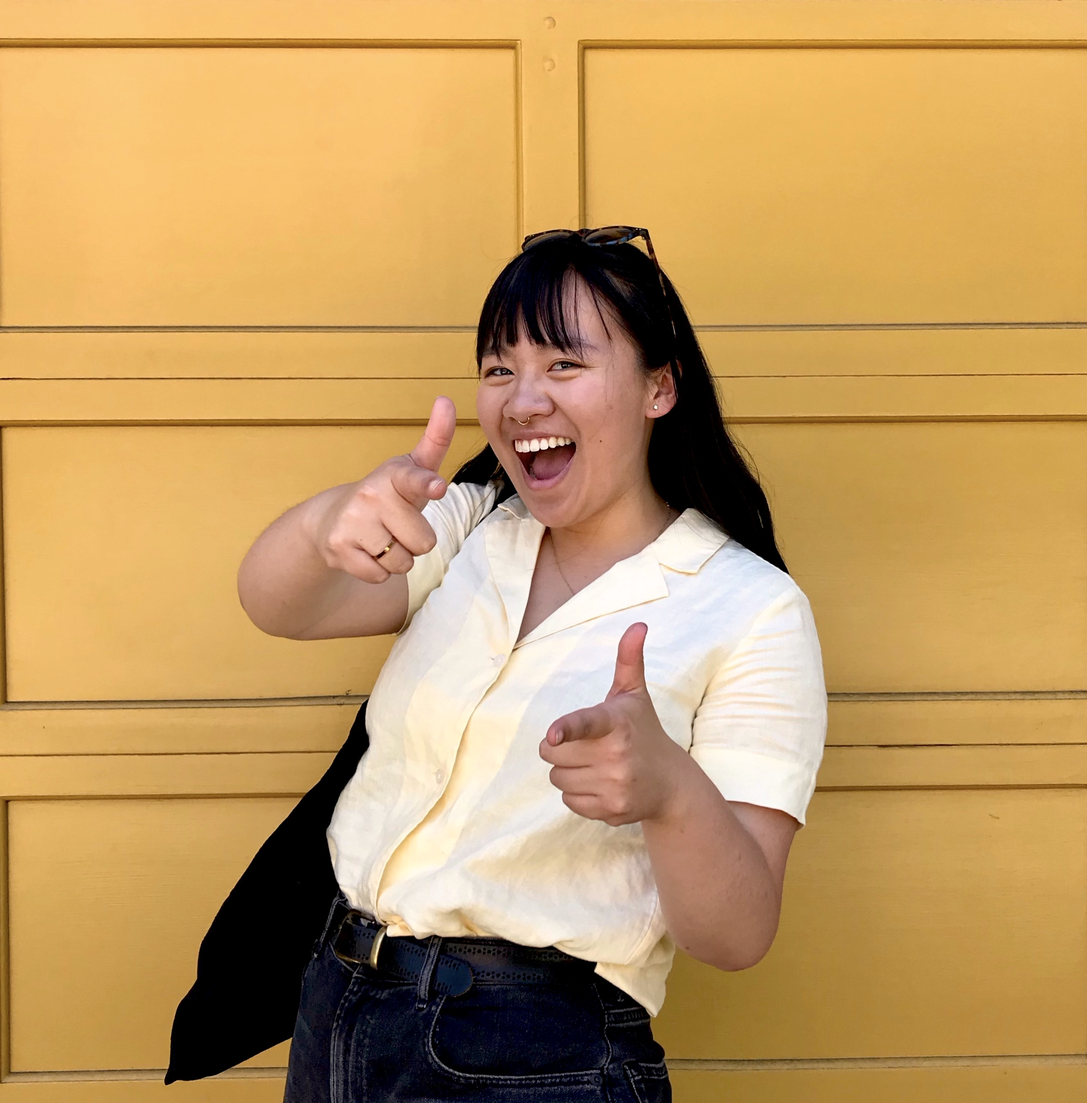
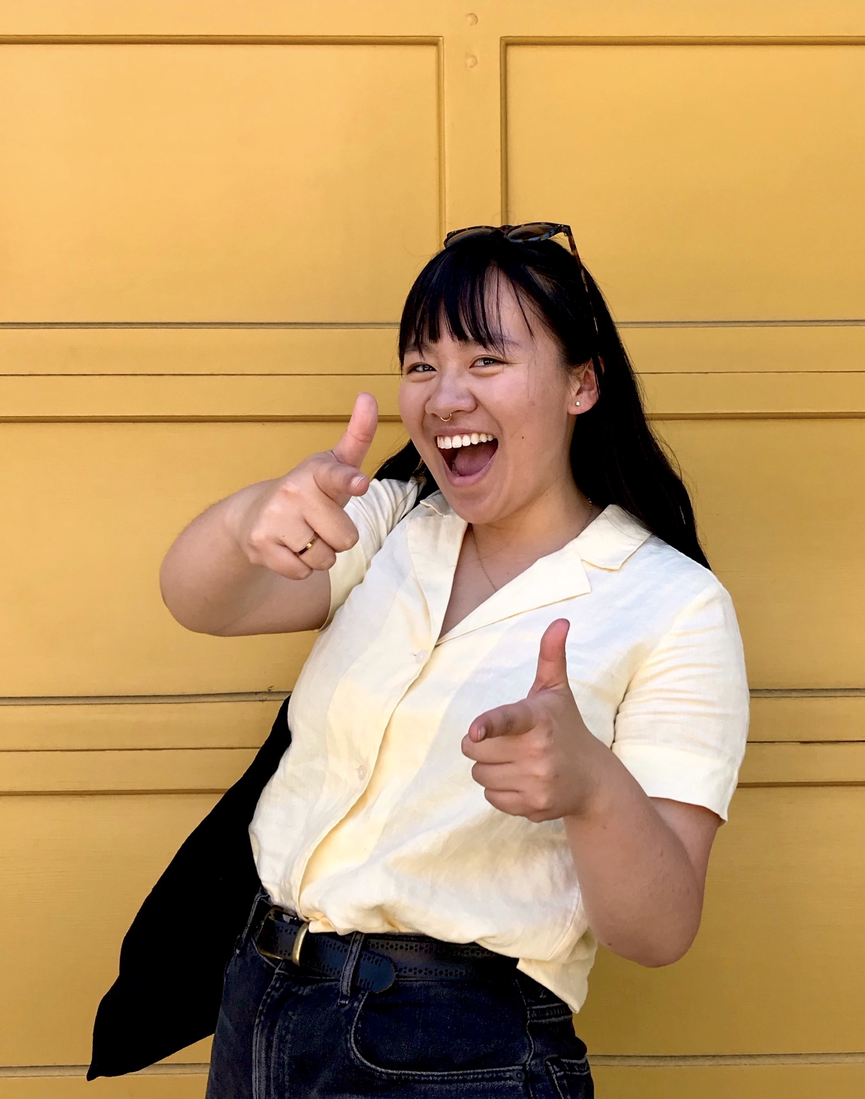
yikes its past midnight

diff --git a/about.html b/about.html
@@ -24,15 +24,18 @@
   <div class="nav">
     <a href="./about.html"> <card></card>  </a>
     <a href="./index.html"> work  </a>
-    <a href ="./QueenieWuResume.pdf" target='_blank'> not work  </a>
+    <a href ="./notwork.html"> not work  </a>
   </div>
 
   <div class="question">
     hey queenie, <br>why do you design?
   </div>
+
+  <div class="about">
+
   <div class="bioanswer">
     because our world is tough to understand.
-  </div>
+</div>
   <div class="bio">
      When I was in Kindergarten, footage of China's ShenZhou Six blasting off caught my eye while the news played in my living room. From that point on, I’ve wanted to be an astronaut. As I pursued the goal, I couldn't help but focus on the number of disasters in space exploration caused by misuse and misinformation. So I asked myself, what can I do to alleviate that?
 <br><br>
@@ -42,7 +45,10 @@ I'm also a huge advocate for the design community. I lead UW/UX - the University
 <br><br>
 Looking forward, I want to create solutions that help our world process complexity. I want to work in the geospacial industry designing for situational awareness in high-risk environments. It might be a lofty goal, but after all, even my five-year-old self imagined being among the stars.
   </div>
-  <img src="./queenie.JPG">
+    </div>
+          <img src="./queenie.JPG">
+  </div>
+
 
   <div class="footer">
     <a href ="./QueenieWuResume.pdf" target='_blank'>Resume</a>

diff --git a/css/styles.css b/css/styles.css
@@ -122,51 +122,56 @@ body {
 
 .bioanswer {
   text-align: right;
+  animation: 0.8s ease-in-out 0s 1 slideInFromBottom;
+  text-align: right;
   position: relative;
   right: 0px;
-  padding-bottom: 0em;
+  bottom: 10px;
   font-family: 'Cabin', sans-serif;
   font-size: 2.5em;
   font-style: normal;
   font-weight: 800;
   line-height: 1.4em;
   color: #FDFDFD;
-  width: 40%;
-  padding-left: 40%;
   -webkit-text-stroke-width: 1.5px;
    -webkit-text-stroke-color: #E15A32;
 
 }
 
+.about{
+  padding-left: 10%;
+  padding-right: 20%;
+  margin-left: 35%;
+  padding-bottom: 5em;
+  margin-top: 0em;
+  width: 35%
+}
+
 .bio {
 animation: 0.8s ease-in-out 0s 1 slideInFromBottom;
-  padding-left: 17em;
-  padding-right: 5em;
-  margin-left: 45%;
-  padding-bottom: 5em;
-  margin-top: -6em;
   font-family: Nunito, sans-serif;
   font-size: 0.85em;
   font-weight: 200;
   color: #5F5F5F;
+  text-align: right;
 }
 
 img {
   animation: 0.8s ease-in-out 0s 1 slideInFromBottom;
   display: block;
-  width: 25em;
+  width: 20em;
   align: left;
-  margin-left: 15em;
-  margin-top: -28em;
+  margin-left: 7em;
+  margin-top: -30em;
   padding-bottom: 4em;
   text-align: left;
   padding-left: 7em;
-  padding-top: 3em;
-  padding-bottom: 2em;
+  padding-top: 0em;
+  padding-bottom: 10em;
 }
 
 .footer {
-  padding-left: 10em;
+  padding-left: 14em;
   padding-bottom: 8em;
   padding-right:10em;
 }

diff --git a/notwork.html b/notwork.html
@@ -29,27 +29,25 @@
     <a href ="./notwork.html"> not work  </a>
   </div>
   <div class="question">
-    hey queenie, <br>what are you doing as a product designer?
-  </div>
-  <div class="answer">
-    <a>improving complex geospacial tools</a>
-    <div class="subanswer"> Palantir - Summer 2019</div>
+    hey queenie, <br>what else are you doing?
   </div>
 
   <div class="answer">
-    <a>scaling a developer experience</a>
-          <div class="subanswer"> Shopify - Fall 2018</div>
+    <a>growing a student design community</a>
+          <div class="subanswer">UW/UX</div>
   </div>
 
 
   <div class="answer">
-    <a>directing the brand behind 700 curious minds</a>
-    <div class="subanswer"> TEDxUW - Fall 2018</div>
+    <a>humanizing internships in tech</a>
+    <div class="subanswer"> 16 Weeks of Internships</div>
   </div>
 
-  <div class="answer">
-    <a>telling stories about tech and philanthropy</a>
-    <div class="subanswer"> UW Blueprint - Winter 2019</div>
+
+    <div class="answer">
+      <a>eating everything in my way</a>
+      <div class="subanswer">Cafes and Spaces</div>
+    </div>
 
   </div>
   <div class="footer">
